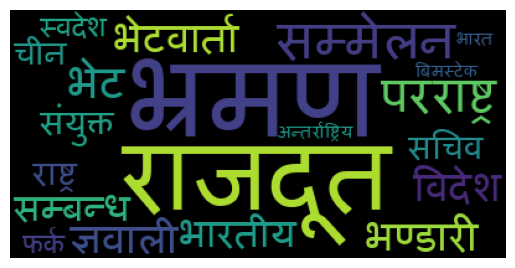
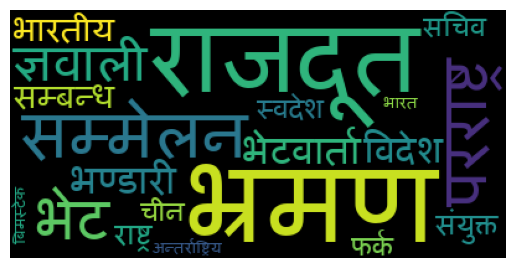
all code updated for 26 topics case

diff --git a/backend/utils.py b/backend/utils.py
@@ -80,7 +80,8 @@ def return_bow(index):
     #         bow_corpus.append(ast.literal_eval(line.strip()))
     # return bow_corpus
     x = bow_corpus[index]
-    x = ast.literal_eval(x.strip())
+    # x = ast.literal_eval(x.strip())
+    # print(x)
     return x
 
 
@@ -91,13 +92,17 @@ def store_top_news_per_topic():
         [cluster_by_topic.setdefault(i, []) for i in range(lda_model.num_topics)]
         index = 0
         num_of_docs = df.shape[0]
+        
+        print('Fine till here')
         for i in range(num_of_docs):
+            print(f'Fine till here = {i}')
             bow = return_bow(i)
+            
             topics_list = lda_model.get_document_topics(bow, minimum_probability=0.8)
             for topic_id, score in topics_list:
                 cluster_by_topic[topic_id].append((index,score))
             index += 1
-        
+        # print('Fine till here')
         top_docs = []
         for i in cluster_by_topic:
             curr_top_docs = cluster_by_topic[i]
@@ -109,10 +114,12 @@ def store_top_news_per_topic():
             
         result_df = pd.DataFrame(top_docs, columns=[
                         'topic_no', 'score', 'title', 'date', 'link', 'source'])
-        result_df.to_csv('./generated_info/top_news_per_topic.csv',index=False)
+        result_df.to_csv(
+            './generated_info/top_news_per_topic_26_topics_setopati_1.csv', index=False)
     except Exception as e:
-        if path.exists('./generated_info/top_news_per_topic.csv'):
-            os.remove('./generated_info/top_news_per_topic.csv')
+        if path.exists('./generated_info/top_news_per_topic_26_topics_setopati_1.csv'):
+            os.remove(
+                './generated_info/top_news_per_topic_26_topics_setopati_1.csv')
         return False
     return True
 

diff --git a/backend/main.py b/backend/main.py
@@ -59,7 +59,7 @@ def get_all_topics():
     """
     
     # set following to False if new model trained or folder images deleted
-    word_cloud_generated = False
+    word_cloud_generated = True
     if not word_cloud_generated:
         success = clear_folder(folder_path='./generated_info/word_clouds_training_data')
         logging.critical(f'success: {success}')
@@ -124,9 +124,9 @@ def document_info(doc:Document):
         top_topics_in_a_doc = sorted(lda_model[bow_vector], key=lambda tup: -1*tup[1])
         top_topics_in_a_doc = [(i, j) for i, j in top_topics_in_a_doc if j > 0.08]
         #  list_of_images for a document is [ [highest_score, topic1], [ next_highest_score, topic2]]
-        print('Fine till here')
+
         list_of_images = get_imgs_of_topics_word_cloud(top_topics_in_a_doc)
-        print('Fine till here 1')
+
         topic_dis_img = get_topics_bar_chart_by_percentage(top_topics_in_a_doc)
         similar_news = get_similar_news(bow_vector)
         # return {"top_topics":tuple(top_topics_in_a_doc)}
@@ -137,14 +137,14 @@ def document_info(doc:Document):
 
 @app.get('/topics/{id}')
 def top_news_of_topic(id: int):
-    file_path = './generated_info/top_news_per_topic.csv'
+    file_path = './generated_info/top_news_per_topic_26_topics_setopati_1.csv'
     if not path.exists(file_path):
         # create that file
         success = store_top_news_per_topic()
         if not success:
             return {"success":False}
     
-    news_df = pd.read_csv('./generated_info/top_news_per_topic.csv')
+    news_df = pd.read_csv('./generated_info/top_news_per_topic_26_topics_setopati_1.csv')
     curr_topic_df = news_df[news_df['topic_no'] == id]
     result = curr_topic_df.to_dict(orient='records')
     print(result)
